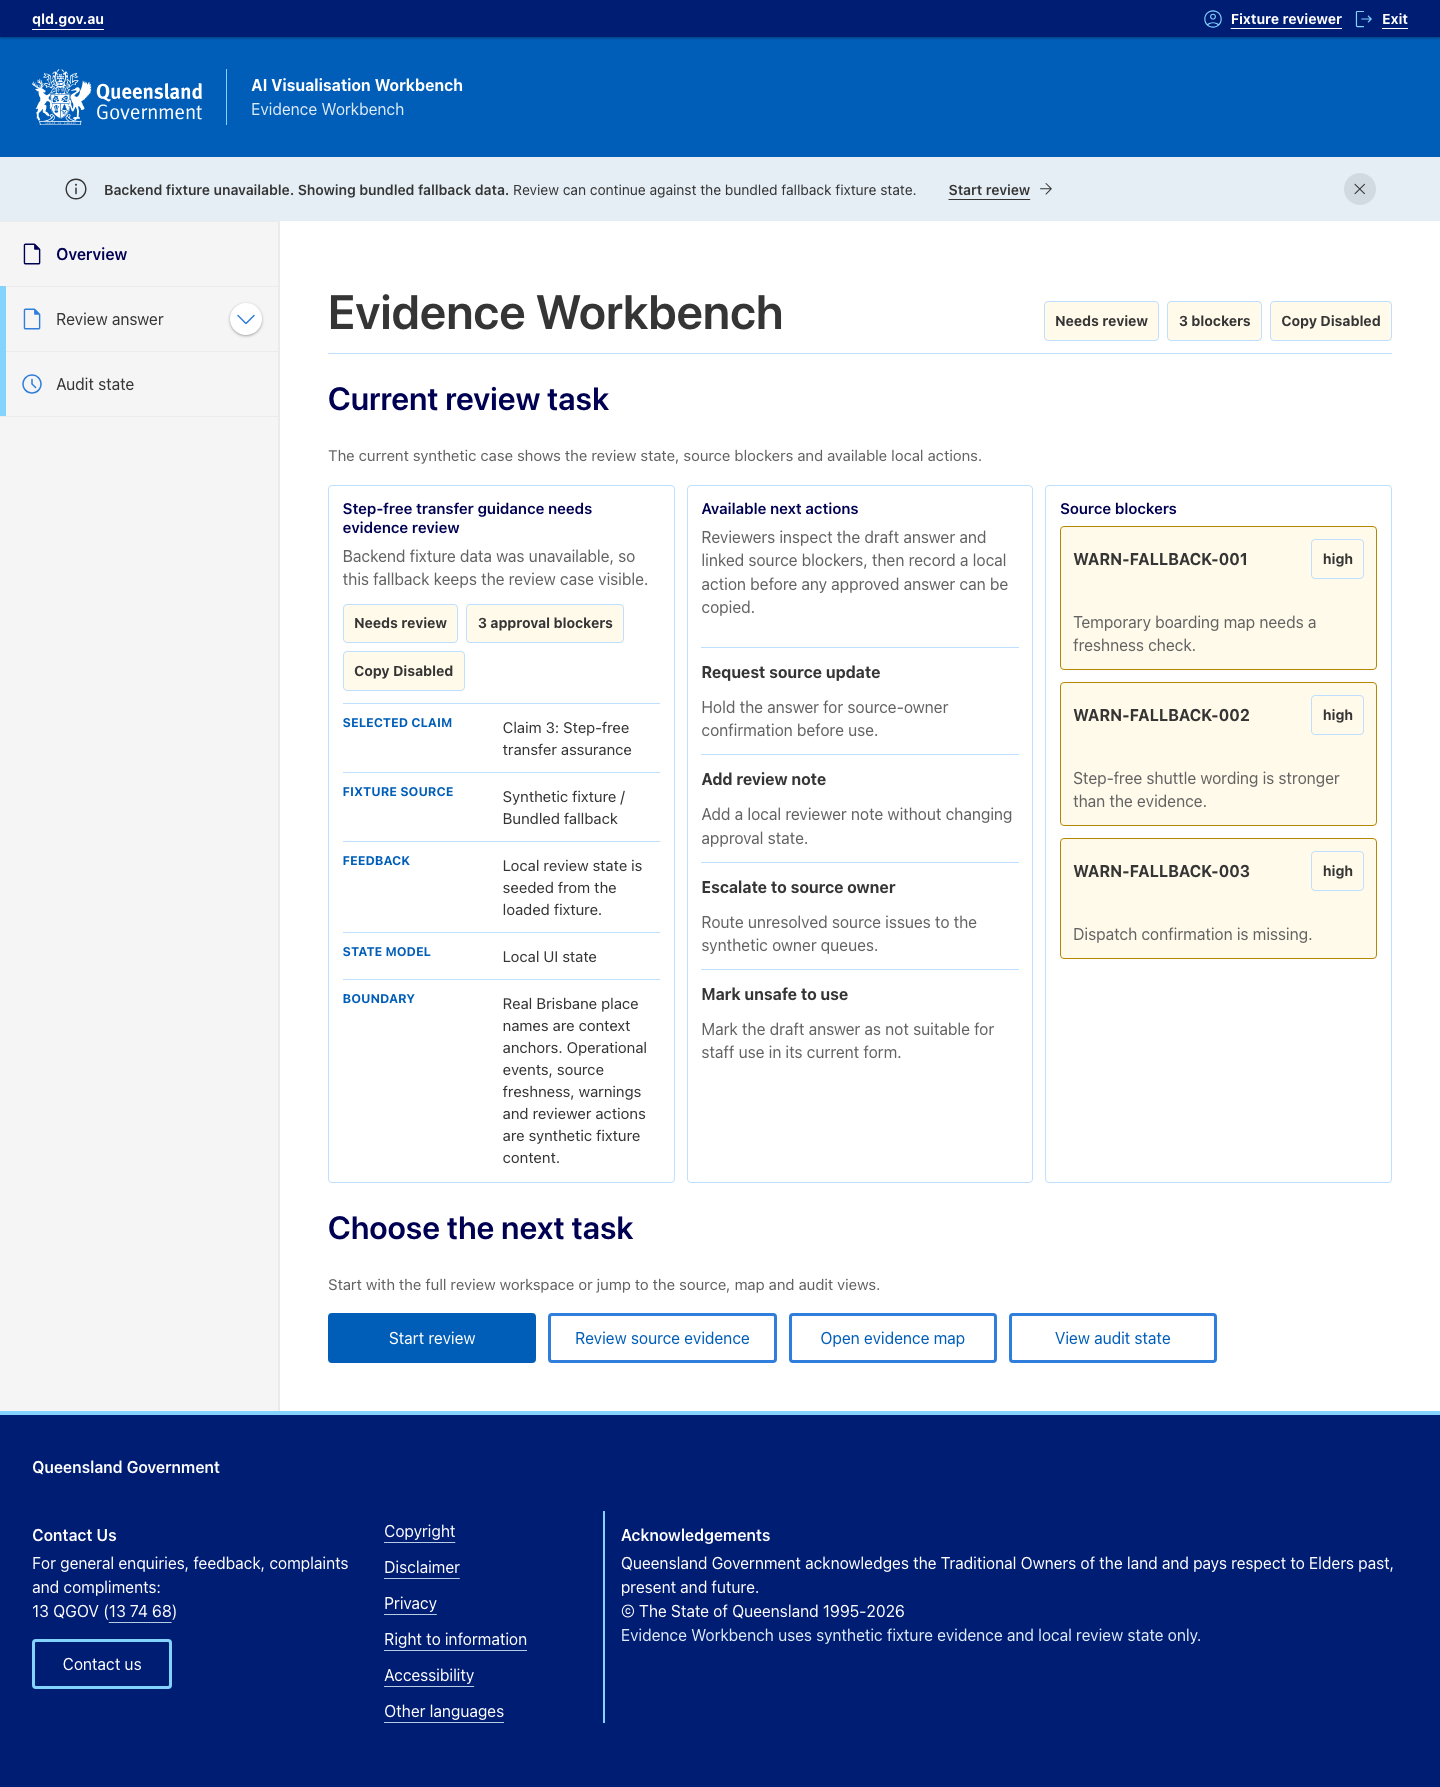
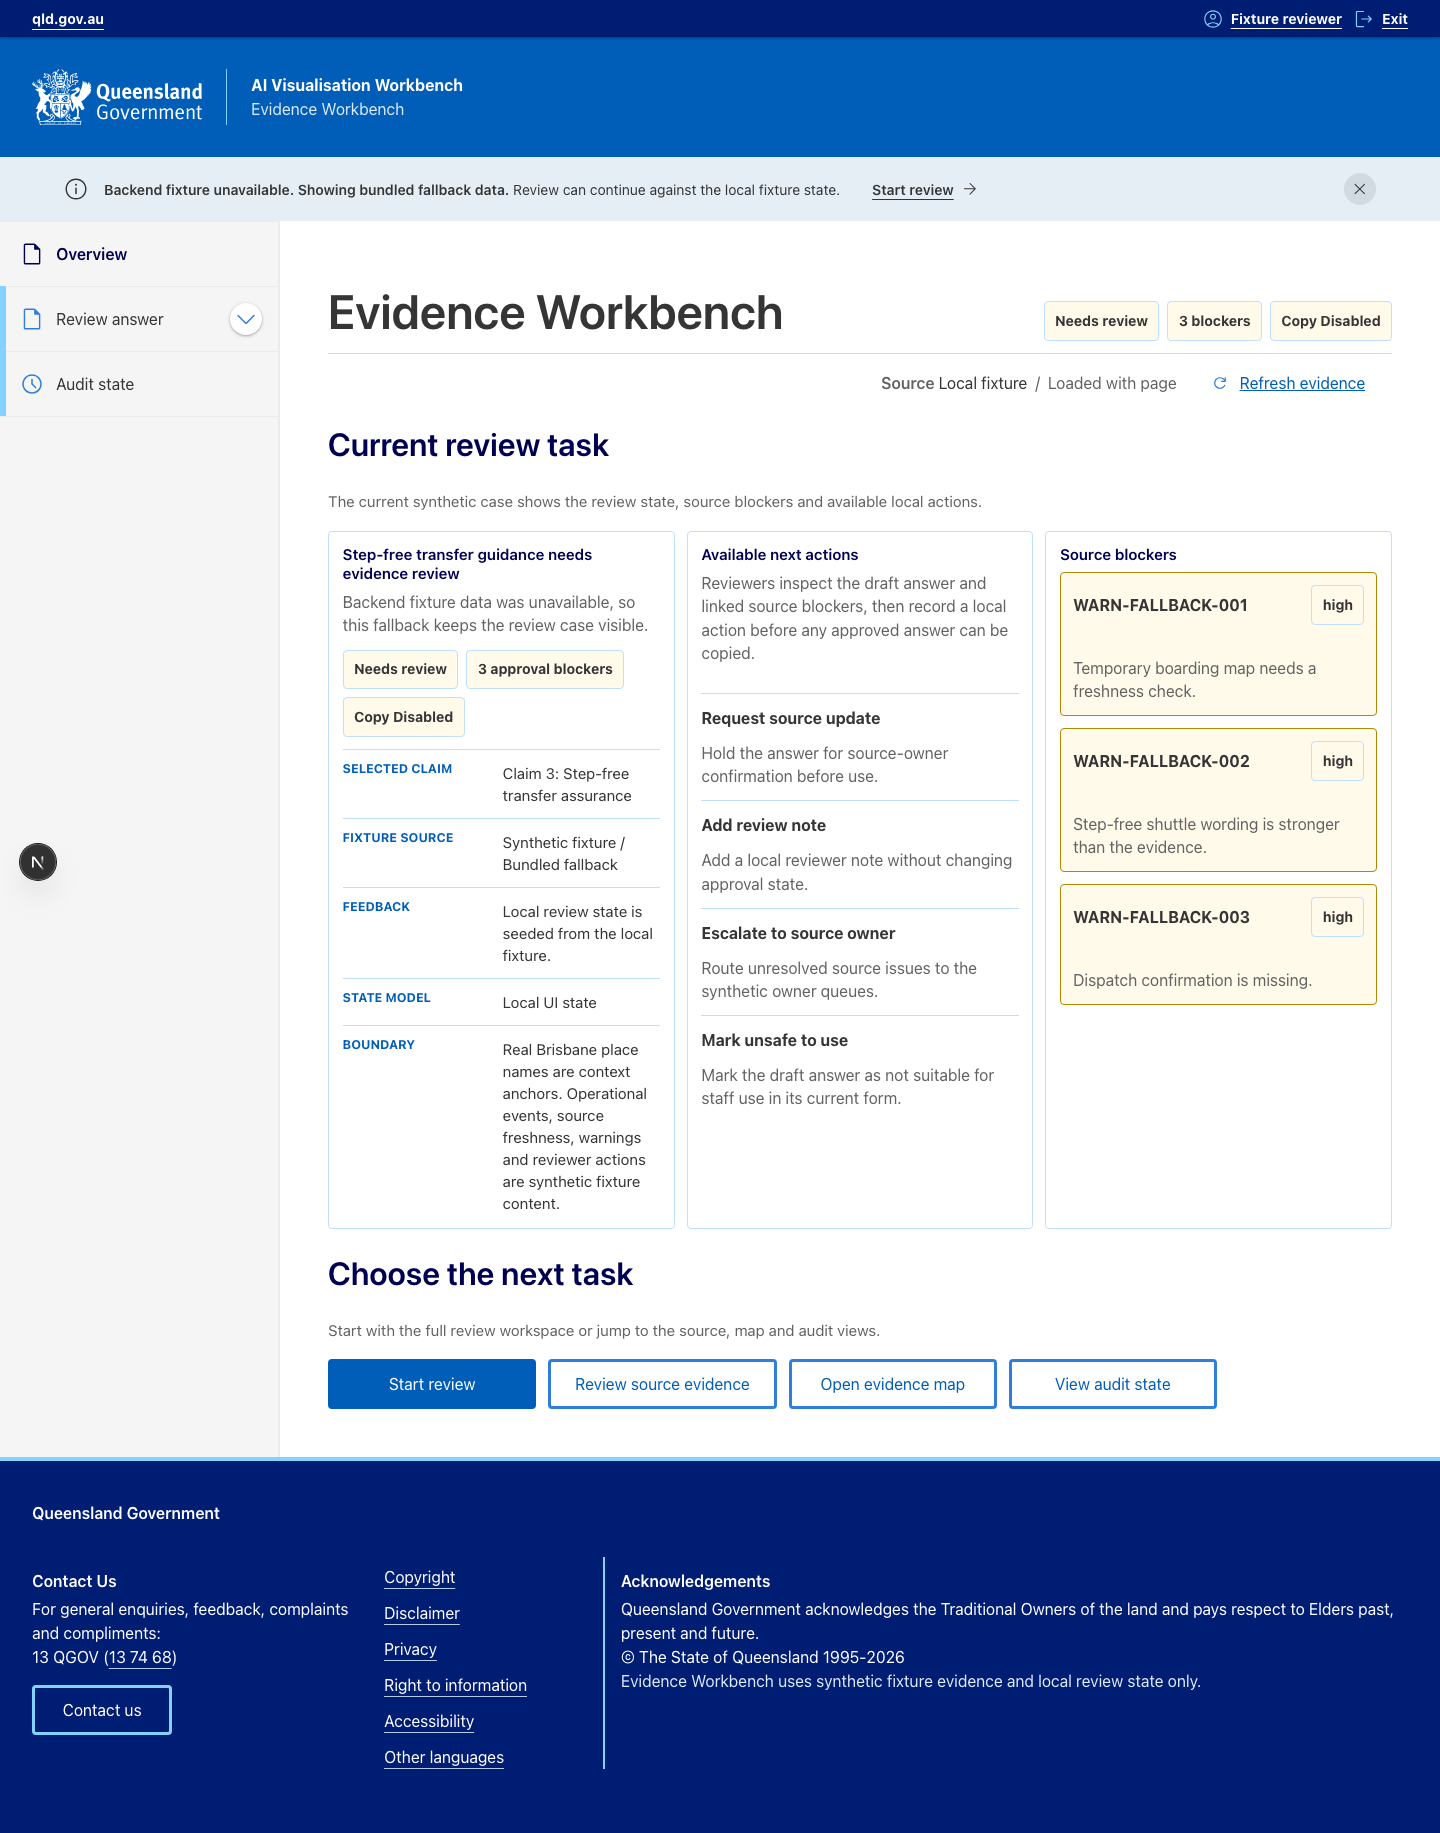
test(workbench): refreshed reviewer screenshots and regression coverage

diff --git a/tests/visual/evidence-workbench-layout.spec.ts b/tests/visual/evidence-workbench-layout.spec.ts
@@ -58,6 +58,7 @@ for (const viewport of viewports) {
 
           await expectMainAndHeadingContract(page, route.heading);
           await expectCompactTaskHeader(page, viewport.headerMin, viewport.headerMax);
+          await expectEvidenceDataStatePlacement(page);
           await expectNoDuplicateIds(page);
           await expectAriaReferencesResolve(page);
           await expectNoVisibleFocusableContentInsideAriaHidden(page);
@@ -232,11 +233,8 @@ async function expectCompactTaskHeader(page: Page, minHeight: number, maxHeight:
 
     return {
       bottom: rect?.bottom ?? 0,
+      dataStateInHeader: Boolean(header?.querySelector('[aria-label="Evidence data state"]')),
       height: rect?.height ?? 0,
-      localFixtureStateInHeader:
-        header
-          ?.querySelector('[aria-label="Evidence data state"]')
-          ?.textContent?.includes("Local fixture") ?? false,
       oldIntroCount: document.querySelectorAll(".workbench-view-intro").length,
       routeDescriptionInHeader:
         header?.textContent?.includes("AIVIS is a simulated evidence workbench") ??
@@ -261,7 +259,51 @@ async function expectCompactTaskHeader(page: Page, minHeight: number, maxHeight:
   expect(metrics.workGap).toBeGreaterThanOrEqual(0);
   expect(metrics.workGap).toBeLessThanOrEqual(32);
   expect(metrics.routeDescriptionInHeader).toBe(false);
-  expect(metrics.localFixtureStateInHeader).toBe(true);
+  expect(metrics.dataStateInHeader).toBe(false);
+}
+
+async function expectEvidenceDataStatePlacement(page: Page) {
+  const metrics = await page.evaluate(() => {
+    const header = document.querySelector<HTMLElement>(".workbench-task-header");
+    const dataState = document.querySelector<HTMLElement>('[aria-label="Evidence data state"]');
+    const summary = document.querySelector<HTMLElement>(".evidence-workbench-data-state__summary");
+    const refresh = document.querySelector<HTMLElement>(".evidence-workbench-data-state__refresh-action");
+    const headerRect = header?.getBoundingClientRect();
+    const dataStateRect = dataState?.getBoundingClientRect();
+    const summaryRect = summary?.getBoundingClientRect();
+    const refreshRect = refresh?.getBoundingClientRect();
+
+    return {
+      dataStateAfterHeader:
+        Boolean(headerRect && dataStateRect && dataStateRect.top >= headerRect.bottom),
+      dataStateIsNextSibling: header?.nextElementSibling === dataState,
+      gapFromHeader:
+        headerRect && dataStateRect ? Math.max(0, dataStateRect.top - headerRect.bottom) : -1,
+      refreshGapFromSummary:
+        summaryRect && refreshRect ? Math.max(0, refreshRect.left - summaryRect.right) : -1,
+      refreshRightGap:
+        dataStateRect && refreshRect ? Math.abs(dataStateRect.right - refreshRect.right) : -1,
+      text: dataState?.textContent?.replace(/\s+/g, " ").trim() ?? ""
+    };
+  });
+
+  console.log(
+    [
+      `[aivis-visual] dataStateGapFromHeader=${Math.round(metrics.gapFromHeader)}px`,
+      `[aivis-visual] dataStateRefreshRightGap=${Math.round(metrics.refreshRightGap)}px`,
+      `[aivis-visual] dataStateRefreshGapFromSummary=${Math.round(metrics.refreshGapFromSummary)}px`
+    ].join("\n")
+  );
+
+  expect(metrics.dataStateIsNextSibling).toBe(true);
+  expect(metrics.dataStateAfterHeader).toBe(true);
+  expect(metrics.gapFromHeader).toBeGreaterThanOrEqual(0);
+  expect(metrics.gapFromHeader).toBeLessThanOrEqual(12);
+  expect(metrics.refreshRightGap).toBeLessThanOrEqual(2);
+  expect(metrics.refreshGapFromSummary).toBeGreaterThanOrEqual(0);
+  expect(metrics.refreshGapFromSummary).toBeLessThanOrEqual(24);
+  expect(metrics.text).toContain("Source");
+  expect(metrics.text).toContain("Refresh evidence");
 }
 
 async function expectNoDuplicateIds(page: Page) {

diff --git a/tests/e2e/evidence-workbench.mock.spec.ts b/tests/e2e/evidence-workbench.mock.spec.ts
@@ -11,6 +11,7 @@ test("mock Evidence Workbench journey stays in fallback fixture mode", async ({
   await expect(
     page.getByText("Backend fixture unavailable. Showing bundled fallback data.")
   ).toBeVisible();
+  await expectEvidenceDataState(page, "Local fixture");
   await expect(page.getByText("Synthetic fixture / Bundled fallback")).toBeVisible();
   await expect(page.getByText("Synthetic fixture / Backend fixture")).toHaveCount(0);
   await expectOverviewAndPersistentNavigationOwners(page);
@@ -758,6 +759,18 @@ async function expectSourceInventoryButtonContained(button: Locator) {
   expect(geometry?.buttonLeft).toBeGreaterThanOrEqual((geometry?.itemLeft ?? 0) - 1);
   expect(geometry?.buttonRight).toBeLessThanOrEqual((geometry?.itemRight ?? 0) + 1);
   await expect(button.locator(".evidence-workbench-source-inventory__cell-label").first()).toBeVisible();
+}
+
+async function expectEvidenceDataState(page: Page, sourceLabel: string) {
+  const taskHeader = page.locator(".workbench-task-header");
+  const dataState = page.locator('[aria-label="Evidence data state"]');
+
+  await expect(taskHeader.locator('[aria-label="Evidence data state"]')).toHaveCount(0);
+  await expect(dataState).toBeVisible();
+  await expect(dataState.getByText("Source")).toBeVisible();
+  await expect(dataState.getByText(sourceLabel)).toBeVisible();
+  await expect(dataState.getByRole("status")).toBeVisible();
+  await expect(dataState.getByRole("button", { name: "Refresh evidence" })).toBeVisible();
 }
 
 function assertRuntime(expectedMode: string, expectedBackend: string) {

diff --git a/tests/e2e/evidence-workbench.real.spec.ts b/tests/e2e/evidence-workbench.real.spec.ts
@@ -8,6 +8,7 @@ test("Docker-backed Evidence Workbench renders backend fixture journey", async (
 
   await page.goto("/evidence-workbench");
   await expect(page.getByRole("heading", { level: 1, name: "Evidence Workbench" })).toBeVisible();
+  await expectEvidenceDataState(page, "Backend fixture");
   await expect(page.getByText("Synthetic fixture / Backend fixture")).toBeVisible();
   await expect(page.getByText("Backend fixture unavailable")).toHaveCount(0);
   await expect(page.getByText("Bundled fallback")).toHaveCount(0);
@@ -63,6 +64,18 @@ async function expectControlCanReceiveFocus(
   const control = page.getByRole(role, { name }).first();
   await control.focus();
   await expect(control).toBeFocused();
+}
+
+async function expectEvidenceDataState(page: Page, sourceLabel: string) {
+  const taskHeader = page.locator(".workbench-task-header");
+  const dataState = page.locator('[aria-label="Evidence data state"]');
+
+  await expect(taskHeader.locator('[aria-label="Evidence data state"]')).toHaveCount(0);
+  await expect(dataState).toBeVisible();
+  await expect(dataState.getByText("Source")).toBeVisible();
+  await expect(dataState.getByText(sourceLabel)).toBeVisible();
+  await expect(dataState.getByRole("status")).toBeVisible();
+  await expect(dataState.getByRole("button", { name: "Refresh evidence" })).toBeVisible();
 }
 
 function assertRuntime(expectedMode: string, expectedBackend: string) {

diff --git a/docs/accessibility-and-ui-evidence.md b/docs/accessibility-and-ui-evidence.md
@@ -14,6 +14,7 @@ accessibility assurance.
 | Navigation state | Side navigation and mobile drawer state are checked for `aria-current`, `aria-expanded`, hidden main content while the drawer is open and focus restoration. |
 | Text process map | The React Flow evidence map has a focusable text fallback region with ordered steps. |
 | Warning posture | Blockers, missing evidence, stale sources and disabled action reasons are text labels, not colour-only signals. |
+| Evidence data state | Route checks verify the source/freshness row is page-level, outside the task header, right aligned and labelled with an object-specific refresh action. |
 | Responsive layout | Checks cover desktop and mobile viewports, route height ceilings, horizontal overflow and action-control fit. |
 | Theme-token stability | Light and dark colour-scheme contexts are checked without capturing new screenshots. |
 

diff --git a/docs/reviewer-pack.md b/docs/reviewer-pack.md
@@ -57,7 +57,9 @@ are checked-in reviewer examples.
 ## Screenshot Gallery
 
 These images are examples for reviewer orientation. They are not visual
-baselines and are not regenerated by `pnpm test:visual`.
+baselines and are not regenerated by `pnpm test:visual`. The current captures
+show the compact evidence data-state row below the task header, including the
+object-labelled refresh action.
 
 | View | Light | Dark theme-token preview |
 | --- | --- | --- |

diff --git a/README.md b/README.md
@@ -63,7 +63,8 @@ availability, disabled reasons and local audit feedback.
 
 These screenshots are reviewer examples, not visual baselines. The dark
 screenshots show a theme-token preview capture context, not proof of a
-user-facing theme switcher.
+user-facing theme switcher. The current captures include the compact
+page-level evidence data-state row below the task header.
 
 | View | Light | Dark theme-token preview |
 | --- | --- | --- |
